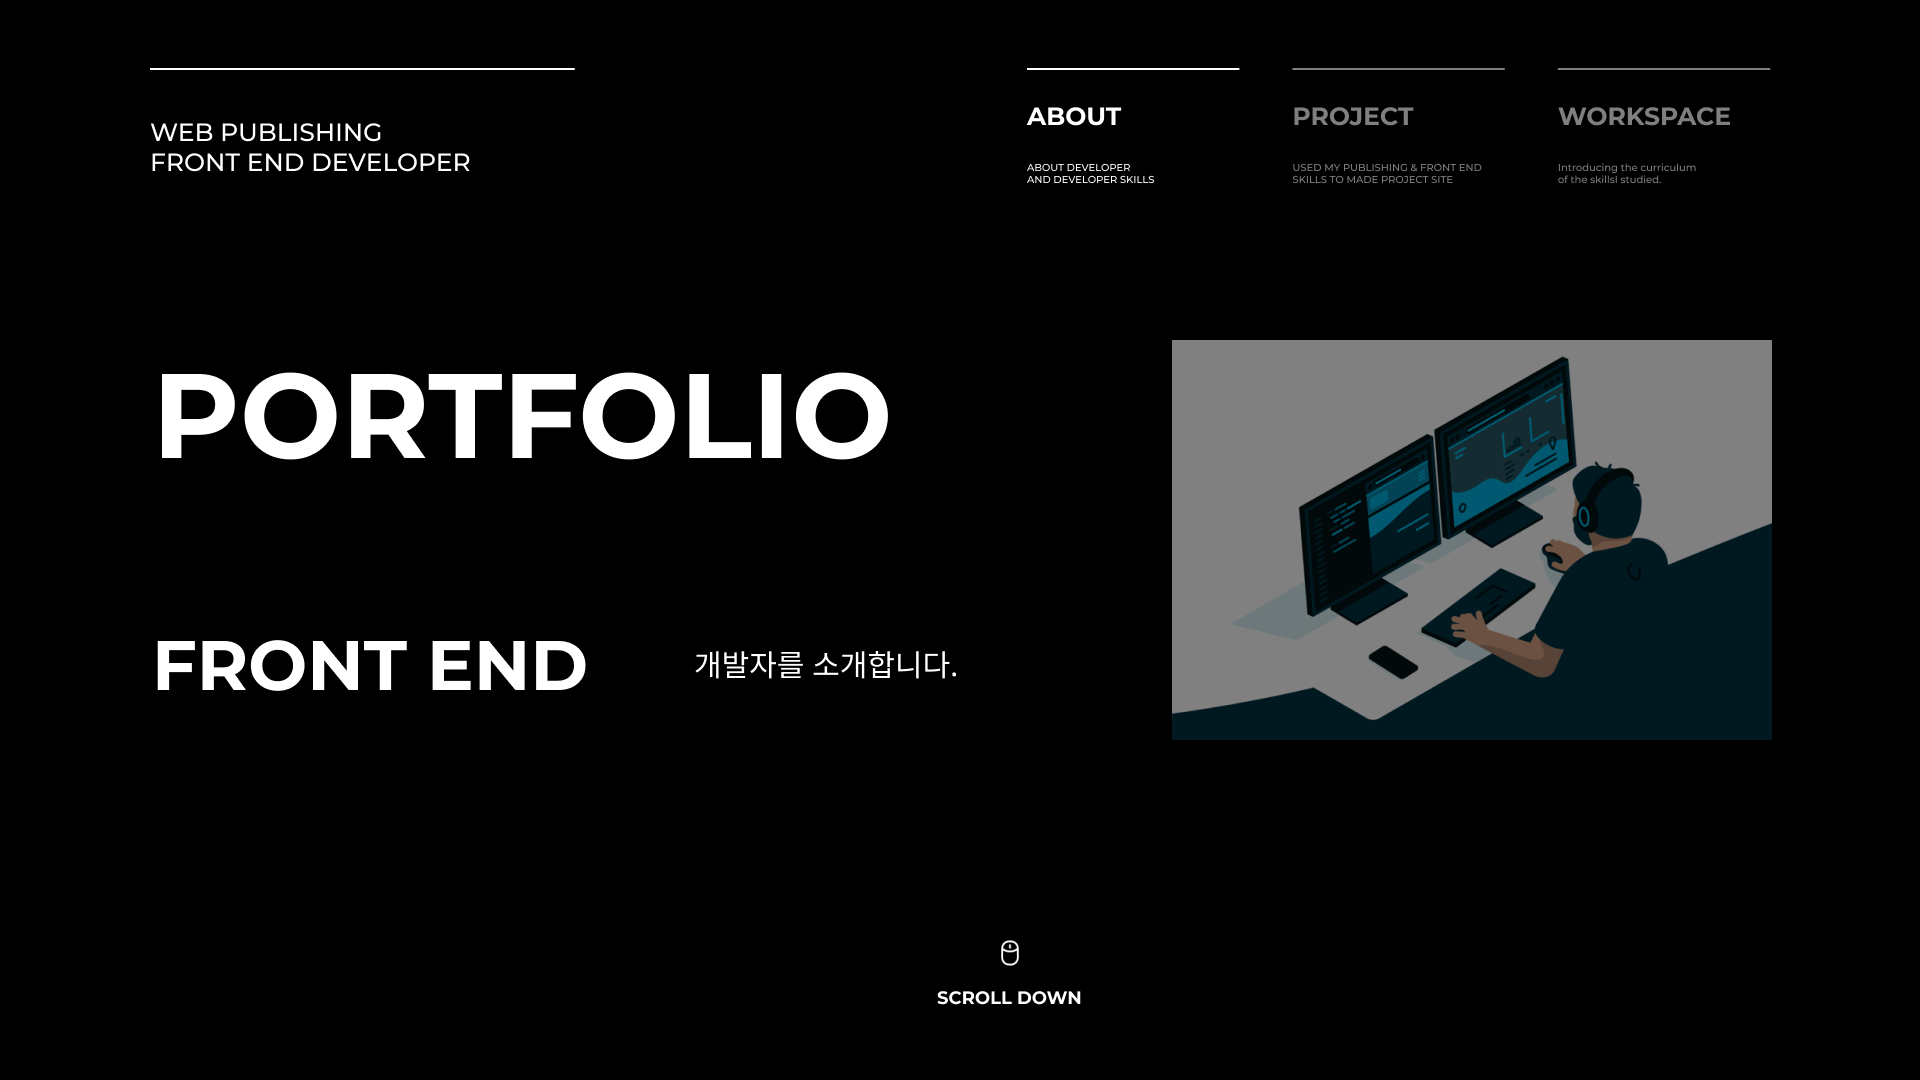
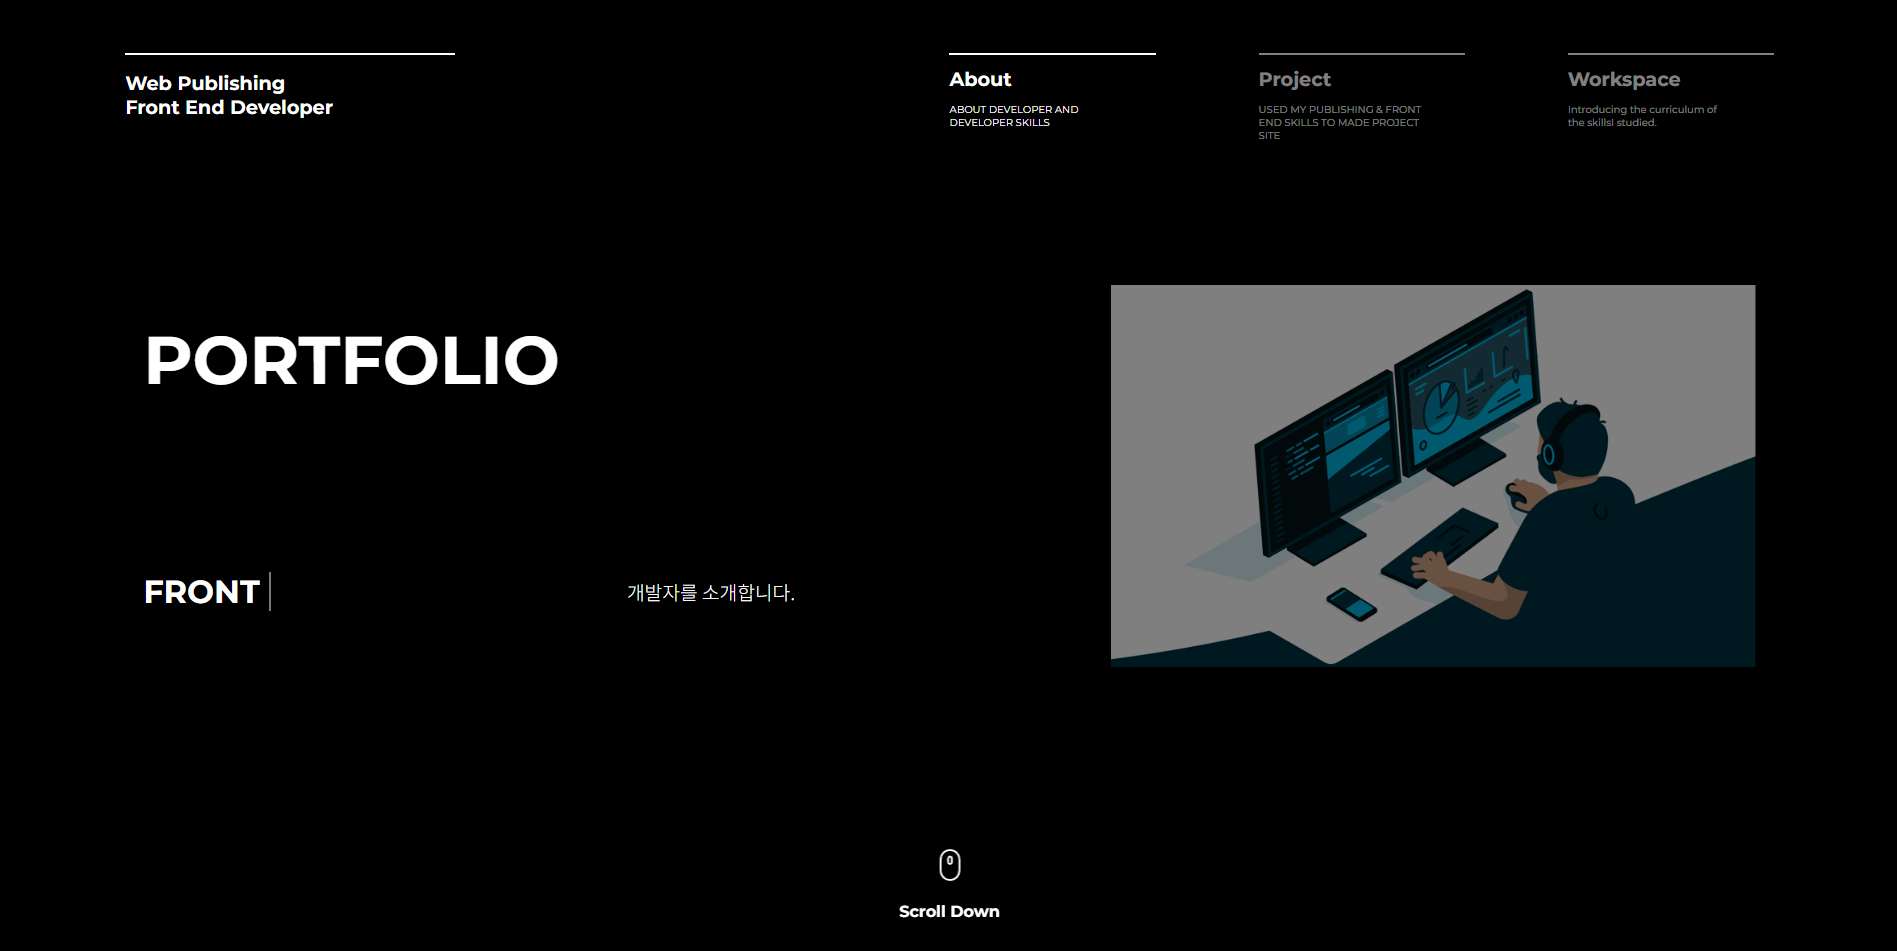
11.07 Fixed : 퍼블리싱 수정 및 Main, Project Route Page Loading 스피너 실행 및 종료 후 dom 구조 수정

diff --git a/src/asset/styles/project.scss b/src/asset/styles/project.scss
@@ -21,7 +21,7 @@
             .Project-ImgBox{
                 position: relative;
                 width: 90%;
-                height: 35rem;
+                height: 32rem;
 
                 img{
                     position: absolute;
@@ -196,6 +196,7 @@
                                 font-weight: bold;
                                 line-height: 3rem;
                                 color: rgba($color: #fff, $alpha: 0.7);
+                                font-size: 13px;
                             }
 
                             &:hover{
@@ -375,10 +376,18 @@
     
                         .view-count{
                             justify-content: space-around;
+
+                            span{
+                                font-size: 12px;
+                            }
                         }
     
                         .like-count{
                             justify-content: space-around;
+
+                            span{
+                                font-size: 12px;
+                            }
                         }
                     }
                 }
@@ -389,13 +398,14 @@
                 top: 2rem;
                 right: 0;
                 width: 100%;
-                height: 30rem;
+                height: 28rem;
                 padding: 0 2rem;
     
                 .Design-menu{
                     position: relative;
                     width: 100%;
-                    height: 15rem;
+                    height: 8.5rem;
+                    margin-bottom: 1.5rem;
     
                     .menu-title{
                         width: 100%;
@@ -423,7 +433,7 @@
     
                 .Skill-menu{
                     width: 100%;
-                    height : max-content;
+                    height : 18rem;
     
                     .menu-title{
                         width: 100%;
@@ -434,6 +444,7 @@
                             color: #fff;
                             font-family: $font-Mont;
                             text-transform: uppercase;
+                            line-height: 5rem;
                         }
                     }
     
@@ -449,7 +460,7 @@
                             margin-right: 1rem;
     
                             .Skill-item{
-                                border: 2px solid rgba($color: #fff, $alpha: 0.7);
+                                border: 1px solid rgba($color: #fff, $alpha: 0.5);
                                 width: max-content;
                                 height: 3rem;
                                 padding : 0 1rem;
@@ -459,7 +470,7 @@
                                     font-weight: bold;
                                     line-height: 3rem;
                                     color: rgba($color: #fff, $alpha: 0.7);
-                                    font-size: 13px;
+                                    font-size: 12px;
                                 }
     
                                 &:hover{
@@ -498,6 +509,7 @@
                         text-transform: uppercase;
                         font-family: $font-Mont;
                         color: #fff;
+                        font-size: 17px;
                     }
     
                     .Board-item{
@@ -510,7 +522,7 @@
                             line-height: 2rem;
                             text-transform: uppercase;
                             font-family: $font-Mont;
-                            color: #fff;
+                            color: rgba($color: #fff, $alpha: 0.7);
                             font-size: 10px;
                             margin-bottom: 2rem;
                         }

diff --git a/src/pages/Project.tsx b/src/pages/Project.tsx
@@ -6,6 +6,8 @@ import { project } from 'reducer/nextIndex';
 import ResponsiveNav from 'Components/Navigator/ResponsiveNav';
 import { MenuActiveContext } from 'App';
 import ResponsiveMenu from 'Components/ResponsiveMenu/ResponsiveMenu';
+import ScrollToTop from 'CustomHook/ScrollToTop';
+import MainNav from 'Components/Navigator/MainNav';
 import ProjectBanner from '../Components/Banner/ProjectBanner';
 import Footer from '../Components/Footer/Footer';
 import Loading from '../CustomHook/Loading';
@@ -45,27 +47,47 @@ function Project() {
     if (location.pathname === '/Project') {
       dispatch(project('Project'));
     }
+
+    setTimeout(() => {
+      setLoading(false);
+    }, 3000);
   }, []);
 
   return (
-    <div className="container" id="container">
-      <header>
-        <ResponsiveNav />
-      </header>
+    <>
+      <ScrollToTop />
+      {loading ? (
+        <>
+          <header>
+            <ResponsiveNav />
+          </header>
 
-      <ResponsiveMenu />
-      {loading === false ? (
-        <main>
-          <section id="project-banner">
-            <ProjectBanner projectDB={projectData} />
-          </section>
-
-          <Footer />
-        </main>
+          <main>
+            <div className="container" id="container">
+              <Loading />
+            </div>
+          </main>
+        </>
       ) : (
-        <Loading />
+        <>
+          <header>
+            <MainNav />
+            <ResponsiveNav />
+          </header>
+
+          <ResponsiveMenu />
+          <main>
+            <div className="container" id="container">
+              <section id="project-banner">
+                <ProjectBanner projectDB={projectData} />
+              </section>
+            </div>
+
+            <Footer />
+          </main>
+        </>
       )}
-    </div>
+    </>
   );
 }
 

diff --git a/src/pages/Main.tsx b/src/pages/Main.tsx
@@ -36,39 +36,46 @@ function Main() {
         <>
           <header>
             <ResponsiveNav />
-            <MainNav />
           </header>
 
-          <Loading />
           <ResponsiveMenu />
+
+          <main>
+            <div className="container" id="container">
+              <Loading />
+            </div>
+          </main>
         </>
       ) : (
-        <main>
+        <>
           <header>
             <ResponsiveNav />
             <MainNav />
           </header>
 
           <ResponsiveMenu />
-          <div className="container" id="container">
-            <section id="main-banner">
-              <MainBanner />
-            </section>
 
-            <section id="introduce">
-              <Developer />
-            </section>
+          <main>
+            <div className="container" id="container">
+              <section id="main-banner">
+                <MainBanner />
+              </section>
 
-            <section id="technology">
-              <Technology />
-            </section>
+              <section id="introduce">
+                <Developer />
+              </section>
 
-            <section id="contact">
-              <Contact />
-            </section>
-          </div>
-          <Footer />
-        </main>
+              <section id="technology">
+                <Technology />
+              </section>
+
+              <section id="contact">
+                <Contact />
+              </section>
+            </div>
+            <Footer />
+          </main>
+        </>
       )}
     </>
   );

diff --git a/src/Components/Project/CurrentProject/CurrentProject.tsx b/src/Components/Project/CurrentProject/CurrentProject.tsx
@@ -7,6 +7,7 @@ import CurrentInfo from 'Components/Project/CurrentProject/CurrentInfo/CurrentIn
 import MainNav from 'Components/Navigator/MainNav';
 import ResponsiveNav from 'Components/Navigator/ResponsiveNav';
 import Footer from 'Components/Footer/Footer';
+import ResponsiveMenu from 'Components/ResponsiveMenu/ResponsiveMenu';
 import ProjectSkills from './ProjectSkills/ProjectSkills';
 import CurrentBoard from './CurrentBoard/CurrentBoard';
 
@@ -23,6 +24,8 @@ function DevelopProject() {
         <MainNav />
         <ResponsiveNav />
       </header>
+
+      <ResponsiveMenu />
       <main>
         <section className="CurrentProject-container">
           <div className="Current-Banner">

diff --git a/src/Components/Project/CurrentProject/CurrentInfo/CurrentInfo.tsx b/src/Components/Project/CurrentProject/CurrentInfo/CurrentInfo.tsx
@@ -32,7 +32,7 @@ function CurrentBanner({ currentData }: propsDataType) {
 
         <li>
           <div className="like-count">
-            <AiFillLike fontSize="1.2rem" />
+            <AiFillLike fontSize="1rem" />
             <span>0</span>
           </div>
         </li>

diff --git a/src/asset/styles/navbar.scss b/src/asset/styles/navbar.scss
@@ -182,7 +182,7 @@
 
             h2{
                 width : 90%;
-                font-size: 12px;
+                font-size: 10px;
                 color: #fff;
                 font-family: $font-Mont;
                 text-transform: uppercase;
